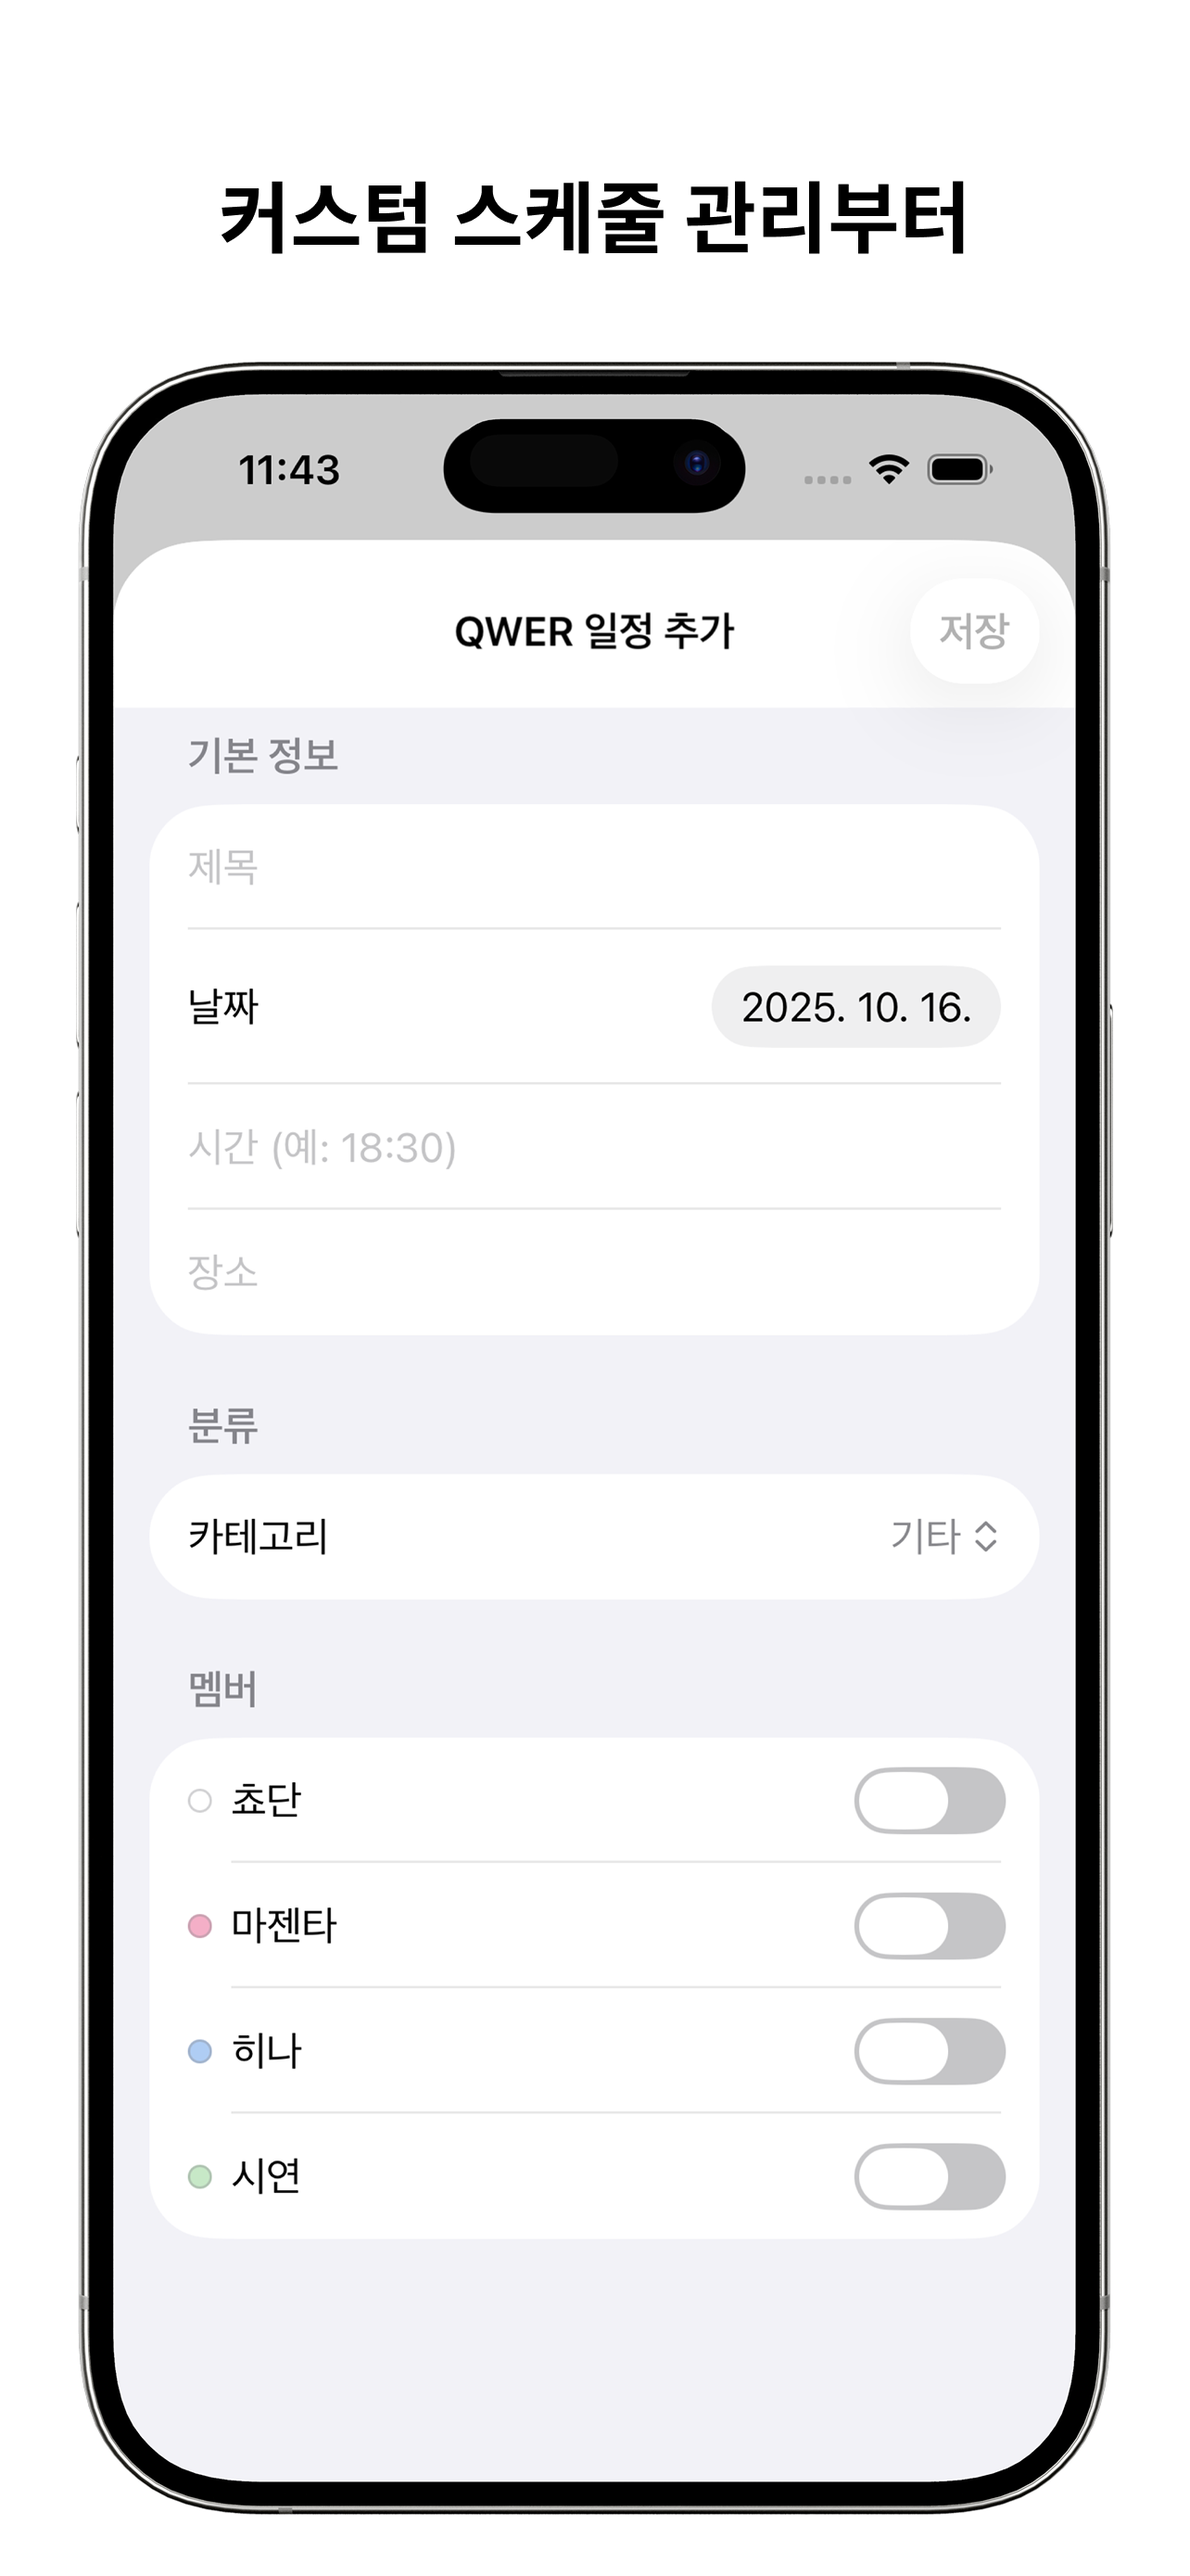
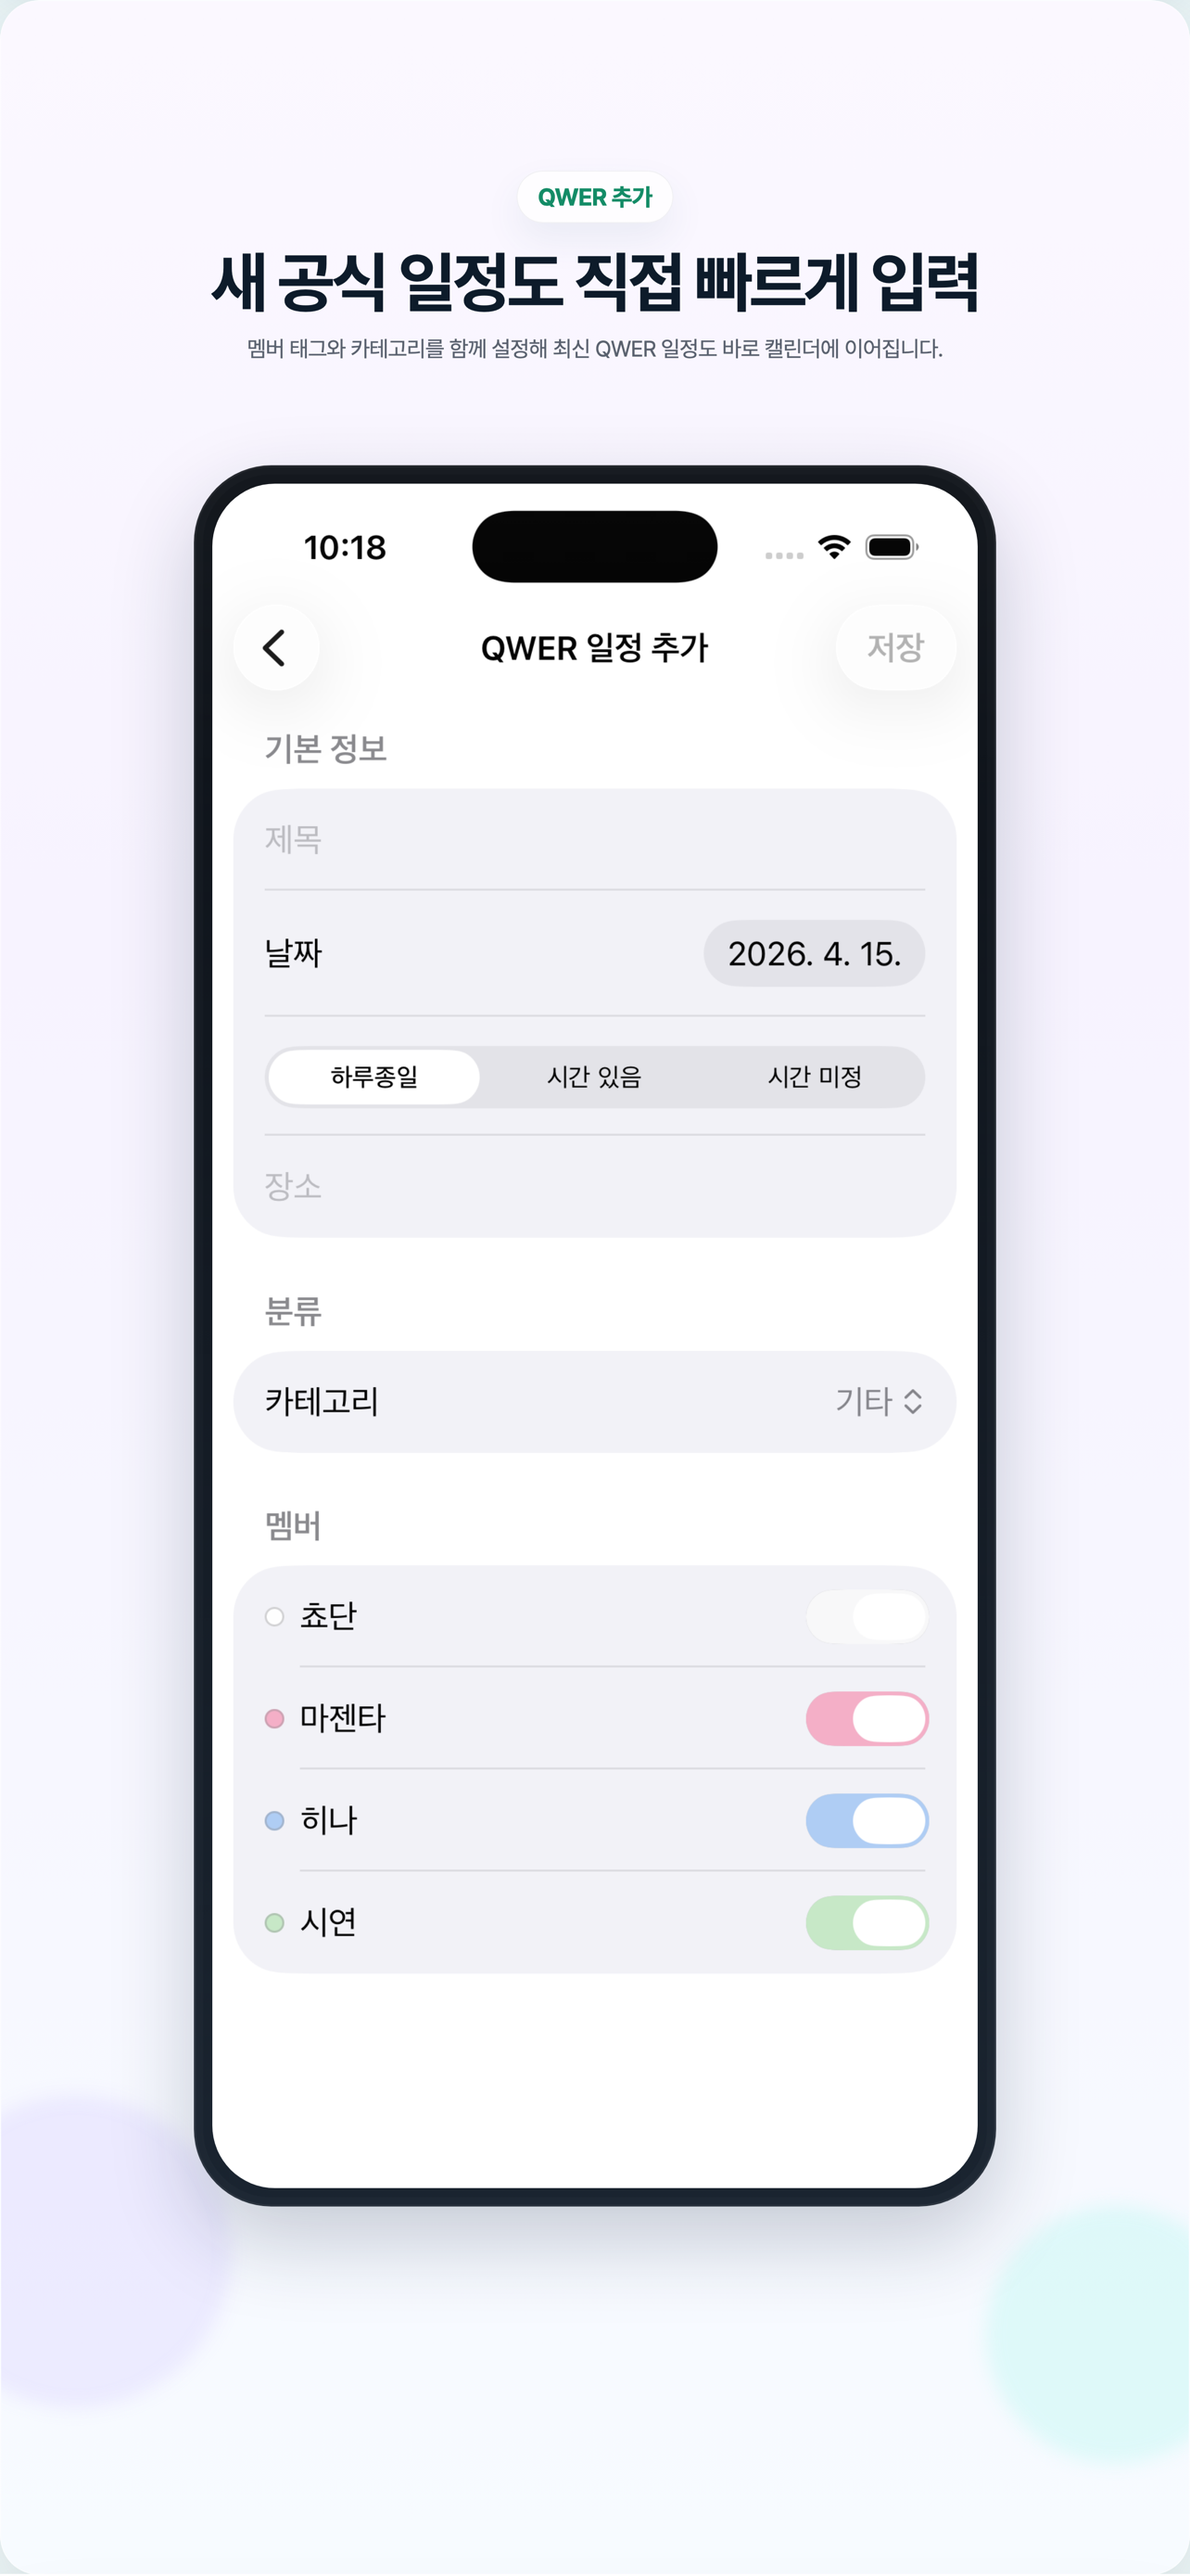
docs: update README for 2.0.0 (#44)

diff --git a/README.md b/README.md
@@ -1,32 +1,33 @@
 # RockCrabCalendar
 
 > 바위게들을 위한 팬덤 캘린더 앱 🎶  
-> 공식 일정 + 내가 추가한 일정 + 멤버별 태그로  
-> 팬활동을 더 쉽고 즐겁게 관리하세요.
+> 공식 일정 + 개인 일정 + 일정 기록을 한 곳에서<br>
+> 팬활동의 계획과 추억을 함께 관리하세요.
 
 ---
 
 ## 📸 스크린샷
 <p align="center">
   <img src="RockCrabCalendar/media/calendar.png" alt="달력 메인 화면" width="250" height="auto"/>
-  <img src="RockCrabCalendar/media/calendar_filter.png" alt="필터 화면" width="250" height="auto"/>
   <img src="RockCrabCalendar/media/schedule_list.png" alt="월별 스케줄 화면" width="250" height="auto"/>
-  <img src="RockCrabCalendar/media/schedule_qwer.png" alt="커스텀 스케줄 관리부터" width="250" height="auto"/>
-  <img src="RockCrabCalendar/media/schedule_private.png" alt="개인 스케줄 관리까지" width="250" height="auto"/>
-  
+  <img src="RockCrabCalendar/media/record.png" alt="기록 탭 화면" width="250" height="auto"/>
+  <img src="RockCrabCalendar/media/record_write.png" alt="기록 작성 화면" width="250" height="auto"/>
+  <img src="RockCrabCalendar/media/calendar_filter.png" alt="필터 화면" width="250" height="auto"/>
+  <img src="RockCrabCalendar/media/widget.png" alt="위젯 화면" width="250" height="auto"/>
 </p>
 
 ---
 
 ## 🚀 핵심 기능
 
-- QWER 일정 업데이트 (생일, 팬사인회, 개인 일정 등)
-- 사용자 개인 일정 추가 가능
-- 멤버별 색상 태그로 멤버별 참여자 시각화 
-- 앱/위젯 영어 UI 지원 및 앱 내부 언어 설정 제공
-- 영어 환경에서 QWER 일정 시간 `KST` 표기 지원
-- 깔끔하고 감성 있는 디자인, 간편한 UI
-- iPad 가로/세로/다양한 화면 크기 지원
+- QWER 공식 일정과 사용자가 직접 추가한 일정을 한 화면에서 관리
+- 캘린더/리스트 보기, 검색, 카테고리 필터로 일정 빠르게 탐색
+- 일정별 알림 시간 설정 지원 (`1시간 전`, `30분 전`, `10분 전`, `5분 전`)
+- 기록 탭에서 일정별 감정, 회고, 사진 최대 5장 저장
+- 기록 카드, 상세/수정, 사진 프리뷰, 기록 삭제 시 첨부 사진 정리 지원
+- 홈 화면 위젯으로 이번 주와 이번 달 일정 확인
+- 앱/위젯 영어 UI와 앱 내부 언어 설정 제공
+- iPhone 및 iPad 화면 지원
 
 ---
 
@@ -35,8 +36,9 @@
 1. 앱스토어에서 `바위게캘린더` 검색 → 설치  
 2. 앱 내 필터 & 오늘 버튼으로 빠른 이동 가능  
 3. 일정 추가: 화면 하단 “+” 버튼 또는 일정 리스트에서 “추가”  
-4. 언어 설정: 설정 → `앱 언어`에서 `시스템 설정 사용 / 한국어 / English` 선택 가능
-5. 영어 환경에서는 QWER 공식 일정 시간이 `KST` 기준으로 표시됨
+4. 알림 설정: 일정 추가/수정 화면에서 `시작 전에 알림 받기`를 켜고 알림 시간을 선택
+5. 기록 남기기: 일정 카드의 기록 버튼 또는 기록 탭에서 감정, 회고, 사진을 저장
+6. 언어 설정: 설정 → `앱 언어`에서 `시스템 설정 사용 / 한국어 / English` 선택 가능
 
 > 🧰 개발자용 설정  
 > - 기반: iOS 17 / SwiftUI  
@@ -83,13 +85,21 @@
 
 | 기능 | 상태 |
 |---|------|
-| 팬 후기 공유 기능 | 계획 중 |
-| 이미지/스티커 저장 아카이브 | 계획 중 |
-| - 할 일(To-Do) 기능 및 알림 설정  | 걔획 중 |
-| 커뮤니티 탭 / 다른 팬들과 일정 공유 | 아이디어 수렴 중 |
+| 기록 공유 기능 | 계획 중 |
+| 기록 검색 및 감정별 필터 | 계획 중 |
+| 캘린더형 기록 아카이브 | 아이디어 수렴 중 |
+| 사진 순서 변경 및 대표 사진 설정 | 아이디어 수렴 중 |
 
 ---
 ## 🐍 업데이트 내역
+2026.04.22 업데이트 내역(v2.0.0)
+
+1. 기록 탭을 추가해 일정별 감정, 회고, 사진을 남길 수 있어요
+2. 기록 사진은 최대 5장까지 추가하고 크게 볼 수 있어요
+3. 일정별 알림 시간을 `1시간 전`, `30분 전`, `10분 전`, `5분 전` 중 선택할 수 있어요
+4. 홈 화면에서 일정 검색을 지원해 원하는 일정을 빠르게 찾을 수 있어요
+5. iPhone/iPad 앱스토어 제출용 스크린샷을 최신 UI 기준으로 정리했어요
+
 2026.03.18 업데이트 내역(v1.1.8)
 
 1. 앱 내부 언어 설정을 추가했어요
@@ -97,28 +107,28 @@
 3. 영어 환경에서 QWER 일정 시간에 `KST`를 표시하도록 개선했어요
 4. 위젯 미리보기와 영어 앱 이름 표기를 정리했어요
 
+2025.12.02 업데이트 내역(v1.1.2)
+
+1. 일정 시간 로직을 변경했어요!
+2. 성공적인 미국 ROCKATION 투어를 축하해요!
+
 2025.10.16 업데이트 내역(v1.1.1)
 
 1. 이제 사용자가 직접 일정을 추가할 수 있어요!
 2. 추가된 일정이 시간순서로 정렬되도록 했어요!
 3. 개발자가 단독 콘서트 후유증에 빠져버렸어요!
 4. 2주년 팝업 구매목록을 작성하고 있어요
-
-2025.12.02 업데이트 내약(v1.1.2)
-
-1. 일정 시간 로직을 변경했어요!
-2. 성공적인 미국 ROCKATION 투어를 축하해요!
 ---
 
 ## 💡 왜 바위게캘린더인가?
 
 팬으로서 일정 놓치는 것이 아쉬웠던 순간들을 기억해요.  
-내 멤버 스케줄, 내 일정, 공식 일정이 분리되어 있었기에 모든 걸 한 곳에 보고 싶었고, 그래서 만든 앱입니다.  
+공식 일정, 내 일정, 다녀온 일정의 기록이 분리되어 있었기에 모든 걸 한 곳에 보고 싶었고, 그래서 만든 앱입니다.<br>
 “바위게들의 하루”를 조금 더 특별하게 만드는 작은 도구가 되길 바랍니다.
 
 ---
 
 ## 📄 라이선스 & 저작권
 
-© 2025 YuSeong Choi  
+© 2026 YuSeong Choi<br>
 라이선스: MIT License
